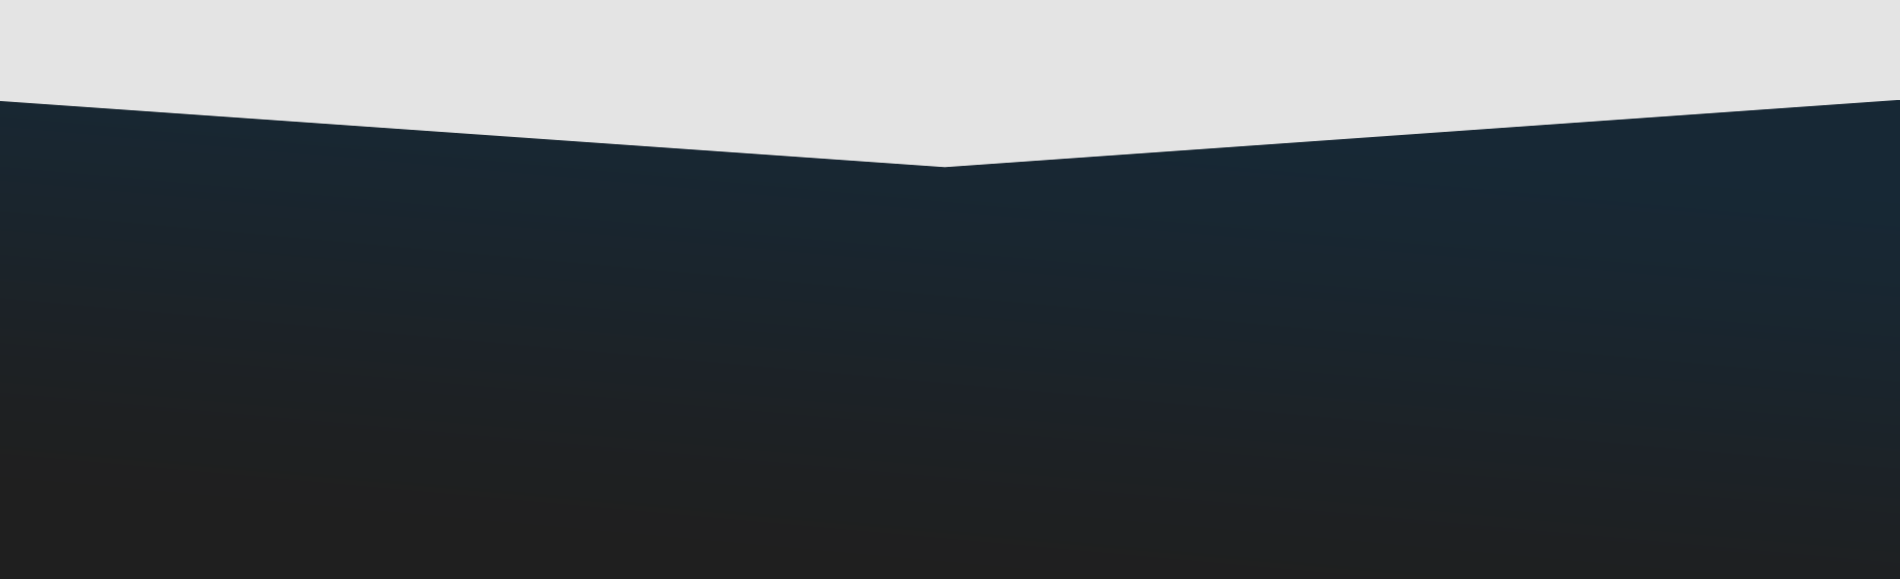
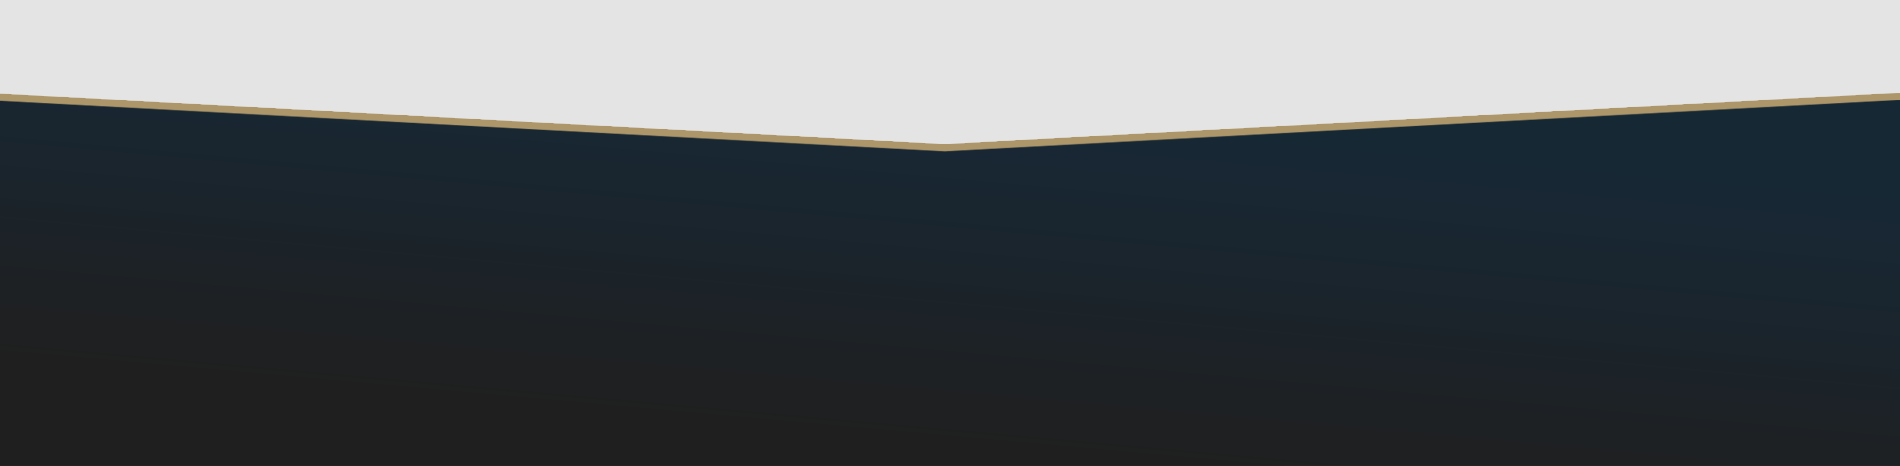
Continue reading section

Changed region(s): [[0.0, 0.1502, 1.0, 0.3305]]

diff --git a/pages/resume-building/resume_tutorial.html b/pages/resume-building/resume_tutorial.html
@@ -26,7 +26,7 @@
                       <a class="link current" href="#!" style="color: #AC966A; font-weight: 700;">Resume Building</a>
                       <ul class="nav-dropdown">
                         <li>
-                          <a href="#!" style="color: #AC966A; font-weight: 700;">Full Tutorial</a>  
+                          <a href="#!" style="color: #AC966A; font-weight: 700;">Resume Review</a>  
                         </li>
                         <li>
                           <a href="#!">Resume Formats</a>
@@ -45,6 +45,9 @@
                     <li>
                       <a class="link" href="#!">Cover Letters</a>
                       <ul class="nav-dropdown">
+                        <li>
+                          <a href="#!">Review</a>
+                        </li>
                         <li>
                           <a href="#!">Formatting</a>
                         </li>
@@ -127,7 +130,7 @@
             <section class="page-description">
                 <div id="page-description-image" class="parallax-window" data-parallax="scroll" data-image-src="/img/article-headings/resume-parallax.jpeg"> 
                     <div id="page-description-labels">
-                        <h1 class="animated fadeInDown">Comprehensive <span>Resume</span> Guide</h1>
+                        <h1 class="animated fadeInDown">Comprehensive <span>Resume</span> Overview</h1>
                         <div class="animated fadeInLeft" id="underline"></div>
                         <p class="animated fadeInUp">The resume provides employers with the opportunity to evaluate an applicant based off the merit of their achievements. <br><br>In many cases, your resume is the first document a hiring manager will look at when reviewing your application, and therefore is a true “first impression.” Accordingly, it’s important to put time and effort into developing and maintaining an updated, accurate resume. 
                         </p>
@@ -225,8 +228,27 @@
                 <div id="featured-underline"></div>
                 <div class="resume-btn"><a href="/pages/resume-building/resume_builder.html">Explore</a></div>
             </div>
-            <div id="test">
-            
+            <div id="continue-reading">
+                <div class="row" >
+                    <div class="row-item ez-animate">
+                        <a href="/pages/resume-building/resume_formats.html"><img src="/img/section-thumbnails/resume-formats.png"></a>
+                        <a href="/pages/resume-building/resume_formats.html"><figcaption class="row-explore-caption"><p>Resume Formats<br><span>Familiarize yourself with the uses, appeals, and styling options of various resume formats.</span></p></figcaption> </a>
+                    </div>
+                    <div class="row-item ez-animate" data-animation="pulse">
+                        <a href="/pages/resume-building/resume_tips.html"><img src="/img/section-thumbnails/resume-tips.png"></a>
+                        <a href="/pages/resume-building/resume_tips.html"><figcaption class="row-explore-caption"><p>Resume Tips<br><span>Reframe your current resume with comprehensive and personalized tips.</span></p></figcaption> </a>
+
+                    </div>
+                    <div class="row-item ez-animate" data-animation="pulse">
+                        <a href="/pages/resume-building/resume_services.html"><img src="/img/section-thumbnails/resume-services.png"></a>
+                        <a href="/pages/resume-building/resume_services.html"><figcaption class="row-explore-caption"><p>Resume Services<br><span>Widen your scope of resume building options with recommendations for outside resources.</span></p></figcaption> </a>
+                    </div>
+                </div>
+                <div class="continue-reading-text">
+                    <div class="continue-reading-underline"></div>
+                    <h1> Continue Reading </h1>
+                    <div class="continue-reading-underline"></div>
+                </div>
             </div>
         </main>
          <footer>
@@ -248,15 +270,16 @@
                   <div class="footer-links-holder">
                     <h3><a href="" style="font-weight">Resumes</a></h3>
                     <ul class="footer-links">
-                      <li><a href="/pages/resume-building/resume_tutorial.html" style="color: #AC966A;">Full Tutorial</a></li>
+                      <li><a href="/pages/resume-building/resume_tutorial.html" style="color: #AC966A;">Review</a></li>
                       <li><a href="/pages/resume-building/resume_formats.html">Formats</a></li>
                       <li><a href="/pages/resume-building/resume_tips.html">Tips</a></li>
                       <li><a href="/pages/resume-building/resume_services.html">Services</a></li>
                     </ul>
                   </div>
                   <div class="footer-links-holder">
-                    <h3><a href="">Cover Letters</a></h3>
+                    <h3><a href="/pages/cover-letters/">Cover Letters</a></h3>
                     <ul class="footer-links">
+                      <li><a href="">Review</a></li>
                       <li><a href="">Formatting</a></li>
                       <li><a href="">Content Tips</a></li>
                       <li><a href="">Builder</a></li>

diff --git a/css/styles.css b/css/styles.css
@@ -670,7 +670,7 @@ span.scroll-nav__heading {
   opacity: 0;
 }
 
-/* Continue Reading
+/* Featured Tool
 ======================================== */
 
 #section-featured-tool > h1 {
@@ -721,11 +721,138 @@ span.scroll-nav__heading {
     width: 30%;
     padding-top: 15px;
 }
-#test {
-    height: 400px;
+
+/* Continue Reading
+======================================== */
+#continue-reading {
+    height: 450px;
     background: url(/img/article-headings/gradient-bottom.png);
     border-bottom: 2px solid #AC966A;
 }
+
+.row {
+  height: 400px;
+  display: grid;
+  grid-template-columns: repeat(3,295px);  /* 3 columns */
+  grid-template-rows: repeat(2,227px); /* 2 rows  */
+  grid-gap:3.125vh 6vw; 
+  align-content: center;
+  position: relative;
+}
+
+.row-item {
+  margin-top: 120px;
+  margin-left: 20vw;
+  width: 100%;
+  height: 100%;
+  border: 2px solid #AC966A;
+  box-shadow: 6px 6px hsla(212, 33%, 9%, 0.7);
+}
+
+.row-item > a > img {
+    width: 100%;
+    -webkit-filter: grayscale(0) blur(0);
+	filter: grayscale(0) blur(0);
+	-webkit-transition: .3s ease-in-out;
+	transition: .3s ease-in-out;
+    -webkit-transform: rotate(0) scale(1);
+	transform: rotate(0) scale(1);
+    
+}
+
+.row-explore-caption {
+    text-align: center;
+    padding-top:15px;
+    opacity: 0;
+    line-height: 21px;
+    width: 160px;
+    position: absolute;
+    color: #fff;
+    margin-top:-170px;
+    margin-left: 70px;
+    text-transform: uppercase;
+    font-family: Raleway;
+    font-weight: 505;
+    transition: 0.5s ease-in-out;
+}
+
+.row-item span {
+    text-transform: none;
+    font-weight: 300;
+    font-style: italic;
+}
+
+.row-item:hover > a > img {
+    opacity: 0.4;
+    -webkit-filter: grayscale(100%) blur(3px);
+	filter: grayscale(100%) blur(3px);
+    
+}
+
+.row-item:hover .row-explore-caption {
+    opacity: 1;
+}
+
+@media only screen and (max-width: 1350px) {
+    .row {
+        grid-gap:3.125vh 5vw;
+    }
+}
+
+@media only screen and (max-width: 1175px) {
+    .row {
+        grid-gap:3.125vh 1vw;
+    }
+    
+    .row-item {
+        box-shadow: none;
+    }
+}
+
+@media only screen and (max-width: 1035px) {
+    .row {
+        grid-template-columns: repeat(3,200px);  
+        grid-template-rows: repeat(2,155px); 
+    }
+    
+    .row-item {
+        margin-top: 10px;
+    }
+    
+    .row-item:hover .row-explore-caption {
+    opacity: 0;
+    }
+}
+
+@media only screen and (max-width: 750px) {
+    .row {
+        grid-template-columns: repeat(3,150px);  
+        grid-template-rows: repeat(2,116.25px); 
+    }    
+}
+
+@media only screen and (max-width: 600px) {
+    .row {
+        grid-template-columns: repeat(3,100px);  
+        grid-template-rows: repeat(2,77.5px); 
+    }
+}
+
+.continue-reading-text {
+    margin-top: -65px;
+    text-align: center;
+    color: #fff;
+    font-size: 10pt;
+    font-family: 'Raleway';
+}
+
+.continue-reading-underline {
+    width: 15%;
+    border-bottom: 1px solid #AC966A;
+
+}
+ 
+
 /* Footer
 ======================================== */
 footer {

diff --git a/index.html b/index.html
@@ -26,7 +26,7 @@
                       <a class="pre-scroll link" href="#!">Resume Building</a>
                       <ul class="nav-dropdown">
                         <li>
-                          <a href="pages/resume-building/resume_tutorial.html">Full Tutorial</a>  
+                          <a href="pages/resume-building/resume_tutorial.html">Resume Review</a>  
                         </li>
                         <li>
                           <a href="#!">Resume Formats</a>
@@ -45,6 +45,9 @@
                     <li>
                       <a class="pre-scroll link" href="#!">Cover Letters</a>
                       <ul class="nav-dropdown">
+                        <li>
+                          <a href="#!">Review</a>
+                        </li>
                         <li>
                           <a href="#!">Formatting</a>
                         </li>
@@ -285,7 +288,7 @@
       <div class="footer-links-holder">
         <h3><a href="">Resumes</a></h3>
         <ul class="footer-links">
-          <li><a href="/pages/resume-building/resume_tutorial.html">Full Tutorial</a></li>
+          <li><a href="/pages/resume-building/resume_tutorial.html">Review</a></li>
           <li><a href="/pages/resume-building/resume_formats.html">Formats</a></li>
           <li><a href="/pages/resume-building/resume_tips.html">Tips</a></li>
           <li><a href="/pages/resume-building/resume_services.html">Services</a></li>
@@ -294,6 +297,7 @@
       <div class="footer-links-holder">
         <h3><a href="">Cover Letters</a></h3>
         <ul class="footer-links">
+          <li><a href="">Review</a></li>
           <li><a href="">Formatting</a></li>
           <li><a href="">Content Tips</a></li>
           <li><a href="">Builder</a></li>

diff --git a/js/script.js b/js/script.js
@@ -1,3 +1,6 @@
+// Onload error debugging
+
+
 // Inner navigation layers + mobile configuration
 
 (function($) { // Begin jQuery
